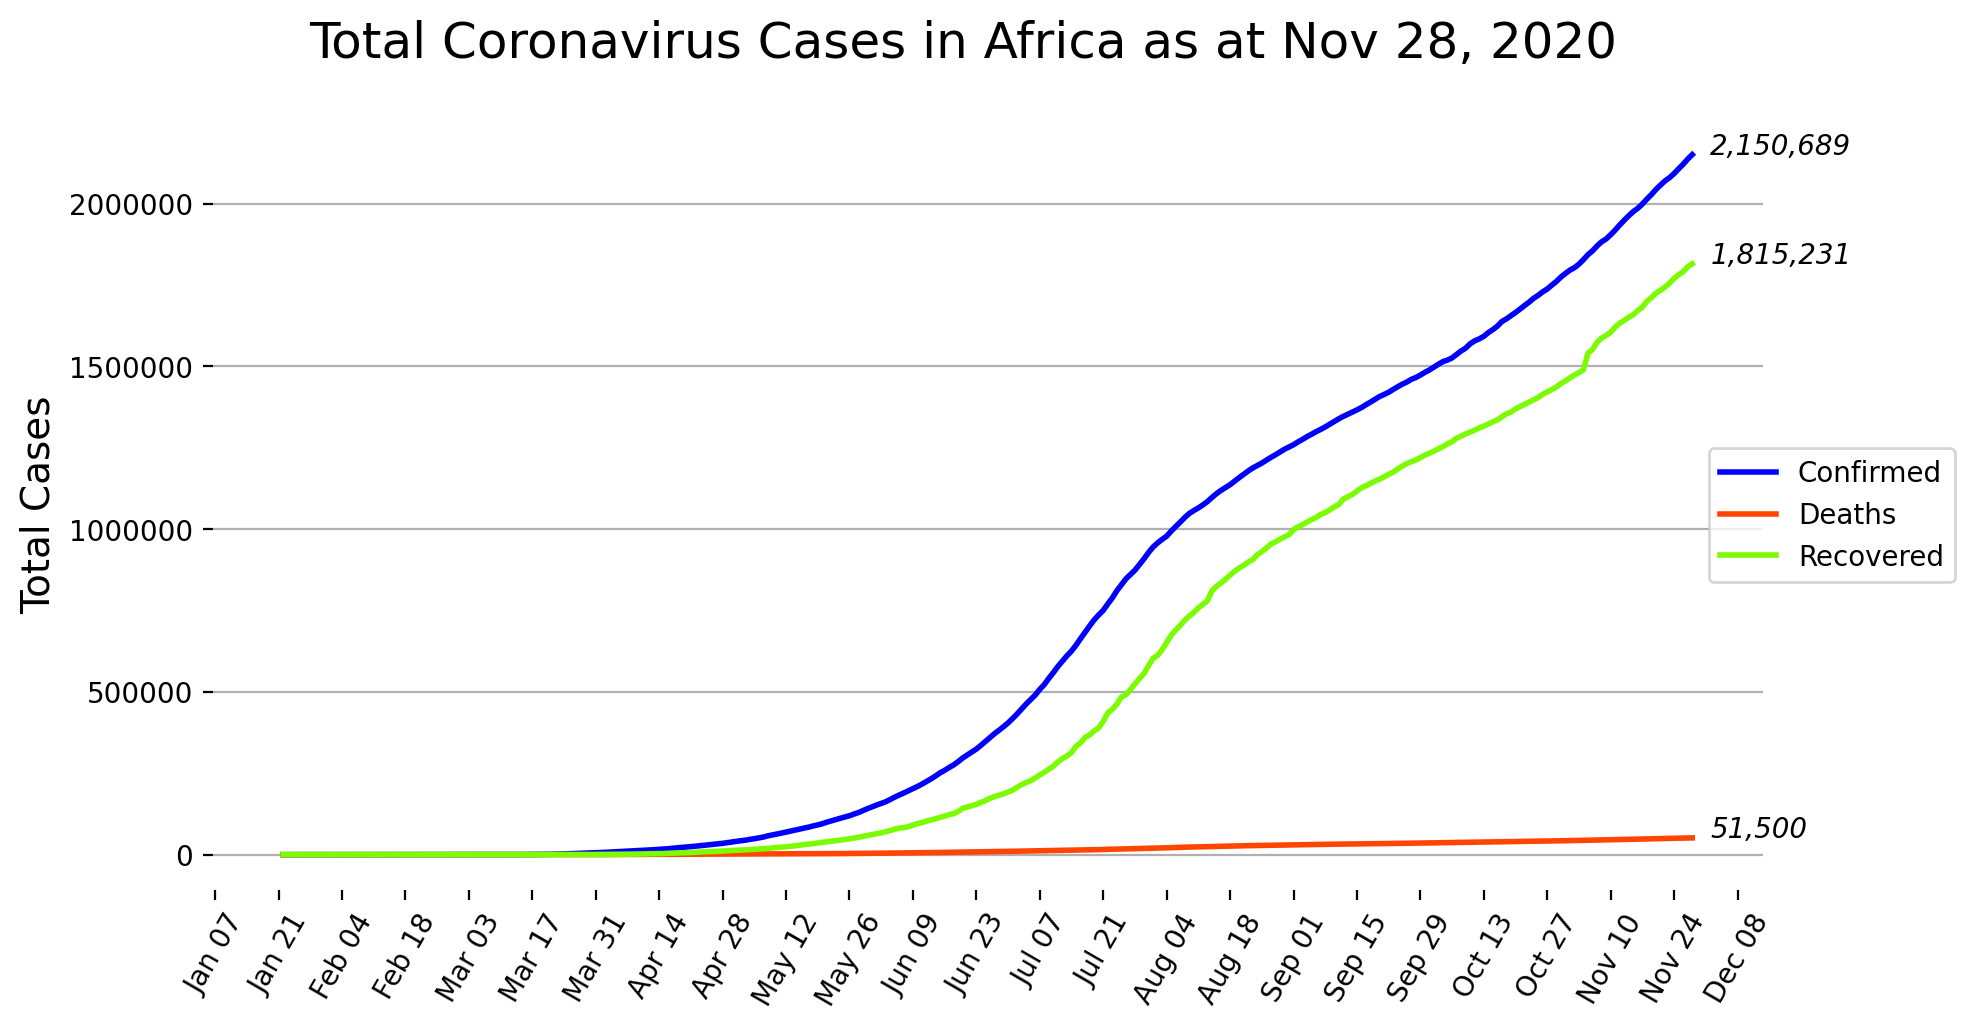
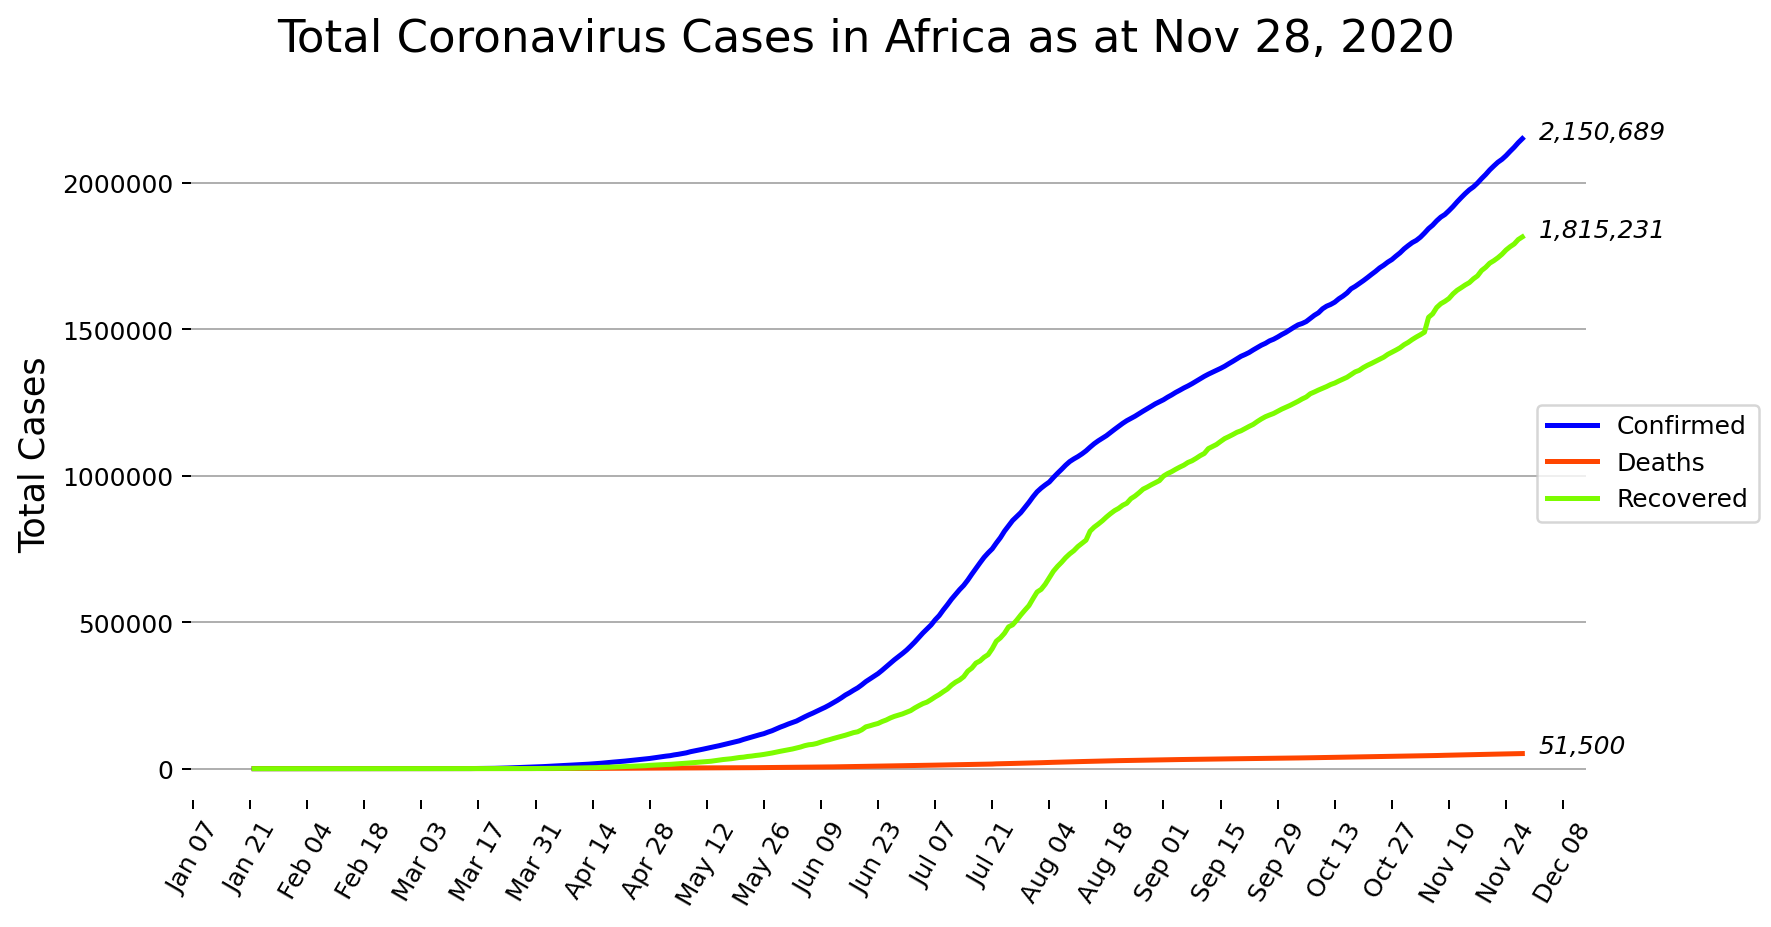
Add incidence-rate and case-fatality-ratio

diff --git a/scripts/utils.py b/scripts/utils.py
@@ -41,11 +41,11 @@ def plot_africa_totals(data, colors=['blue', 'orangered', 'lawngreen']):
     # 'Deaths' and 'Recovered' remain, with 'Date' becoming the index.
     data = data.groupby('Date').sum()
 
-    latest_date = data.index.max().strftime('%h %d, %Y')  # used in title
+    latest_date = data.index.max().strftime('%b %d, %Y')  # used in title
 
     # Create a matplotlib Figure, with lineplots for 'confirmed', 'recovered',
     # and 'deaths'
-    fig = Figure(figsize=(10, 5), dpi=200)
+    fig = Figure(figsize=(10, 5), dpi=180)
     fig.suptitle(f'Total Coronavirus Cases in Africa as at {latest_date}',
                  size=18)
     ax = fig.subplots()
@@ -69,7 +69,7 @@ def plot_africa_totals(data, colors=['blue', 'orangered', 'lawngreen']):
 
     # Set the x-axis to show dates in 2-week intervals
     ax.xaxis.set_major_locator(mdates.WeekdayLocator(interval=2))
-    ax.xaxis.set_major_formatter(mdates.DateFormatter('%h %d'))  # e.g. Jan 20
+    ax.xaxis.set_major_formatter(mdates.DateFormatter('%b %d'))  # e.g. Jan 20
 
     fig.legend(loc='right')
     fig.savefig('images/africa_totals.png', bbox_inches='tight',
@@ -86,13 +86,13 @@ def plot_daily_confirmed(daily_data):
         'Country/Region', and 'Confirmed'.
     """
     latest_date = daily_data['Date'].astype('datetime64').max()\
-                                    .strftime('%h %d, %Y')
+                                    .strftime('%b %d, %Y')
 
     # Get and sort confirmed cases in ascending order
     data = daily_data.set_index('Country/Region')['Confirmed'].sort_values()
 
     # Create a horizontal barplot with country-confirmed-cases as bars
-    fig = Figure(figsize=(6, 12))
+    fig = Figure(figsize=(6, 12), dpi=150)
     ax = fig.subplots()
     ax.set_title(f'Confirmed Coronavirus Cases by Country as at {latest_date}',
                  size=18)
@@ -128,3 +128,44 @@ def plot_geoscatter(geo_data):
     # Save geographical scatter-plot as png image file
     with open('images/geo_scatter.png', 'wb') as pic:
         pic.write(fig.to_image(format='png', scale=2))
+
+
+def plot_daily_stats(daily_stats):
+    """Plot a pair of horizontal bar-plots for coronavirus incidence-rate &
+    case-fatality-ratio in Africa.
+
+    Parameters:
+    ----------
+    daily_stats: pd.DataFrame
+        A DataFrame with the incidence-rate and case-fatality-ratio info,
+        indexed by country.
+    """
+    fig = Figure(figsize=(12, 12), tight_layout=True)
+    ax1, ax2 = fig.subplots(nrows=1, ncols=2)
+
+    # Horizontal barplot of incidence rate
+    daily_stats['Incident_Rate'].sort_values()\
+                                .plot.barh(ax=ax1, color='darkviolet')
+    ax1.set_title('Incidence Rate (Cases Per 100,000 Persons)', size=16)
+    ax1.set_ylabel('Country/Region')
+    despine(ax1)  # remove bordering box
+    ax1.get_xaxis().set_visible(False)  # hide x-axis
+
+    # Horizontal barplot of case-fatality-ratio
+    daily_stats['Case_Fatality_Ratio'].sort_values()\
+                                      .plot.barh(ax=ax2, color='dimgray')
+    ax2.set_title(
+        'Case-Fatality Ratio \n(№ Recorded Deaths / № Cases * 100%)',
+        size=16)
+    ax2.set_ylabel('Country/Region')
+    despine(ax2)  # remove bordering box
+    ax2.get_xaxis().set_visible(False)  # hide x-axis
+
+    # Annotate the bars
+    for p in ax1.patches:
+        ax1.annotate(f'{p.get_width():,.2f}', (p.get_width(), p.get_y()))
+
+    for p in ax2.patches:
+        ax2.annotate(f'{p.get_width():.2f}%', (p.get_width(), p.get_y()))
+
+    fig.savefig('images/stats.png', transparent=True)

diff --git a/scripts/african_cases_full.py b/scripts/african_cases_full.py
@@ -39,6 +39,29 @@ def fetch_data(label, url):
     return data_series.rename(label)
 
 
+def fetch_daily_stats(date):
+    """Fetch incidence-rate and case-fatality-ratio data for Africa from
+    'csse_covid_19_daily_reports'.
+
+    Parameters:
+    ----------
+    date: str
+        Date in the form MM-DD-YYYY.
+
+    Returns:
+    -------
+    A DataFrame with incidence-rate & case-fatality-ratio, indexed by country.
+    """
+    # Modify base_url to fetch daily report data, which contains the derived
+    # statistics
+    daily_report_url = f'{base_url[:98]}daily_reports/{date}.csv'
+
+    daily_df = pd.read_csv(
+        daily_report_url, index_col='Country_Region',
+        usecols=['Country_Region', 'Incident_Rate', 'Case_Fatality_Ratio'])
+    return daily_df[daily_df.index.isin(utils.Africa)]
+
+
 def compile_africa_data(url_dict):
     """Get and save the historic and daily Africa coronavirus data, then plot
     basic visualisations.
@@ -70,12 +93,12 @@ def compile_africa_data(url_dict):
     africa_historic.to_csv('./datasets/africa_historic_data.csv', index=False)
 
     # Extract data for the latest date.
-    dates = africa_historic['Date']
-    africa_daily = africa_historic[dates == dates.max()]
+    latest_date = africa_historic['Date'].iloc[0]
+    africa_daily = africa_historic[africa_historic['Date'] == latest_date]
 
     # Sort in descending order of confirmed cases, and save.
     africa_daily = africa_daily.sort_values(by='Confirmed', ascending=False)
-    filename = f'./datasets/daily/{dates.max()}_c19_african_cases.csv'
+    filename = f'./datasets/daily/{latest_date}_c19_african_cases.csv'
     africa_daily.to_csv(filename, index=False)
 
     # Fetch location data for use in geographical plots
@@ -83,8 +106,12 @@ def compile_africa_data(url_dict):
                               usecols=['Country/Region', 'Lat', 'Long'])
     geo_data = africa_daily.merge(coordinates, on='Country/Region')
 
+    # Fetch incidence-rate & case-fatality-ratio data
+    daily_stats = fetch_daily_stats(latest_date)
+
     utils.plot_africa_totals(africa_historic)  # lineplots of total cases
     utils.plot_daily_confirmed(africa_daily)  # barplot of cases by country
+    utils.plot_daily_stats(daily_stats)  # barplots of derived statistics
     utils.plot_geoscatter(geo_data)  # bubble map of cases in Africa
 
 

diff --git a/README.md b/README.md
@@ -7,6 +7,8 @@ COVID-19 GitHub repository](https://github.com/CSSEGISandData/COVID-19/tree/mast
 
 ![africa totals](images/africa_daily.png)
 
+![africa totals](images/stats.png)
+
 ![africa totals](images/geo_scatter.png)
 [![If you would like to help or track the progress of this project](https://img.shields.io/badge/Roadmap-data--pipeline-informational)](https://github.com/4bic/covid19-in-africa/projects/1)
 
